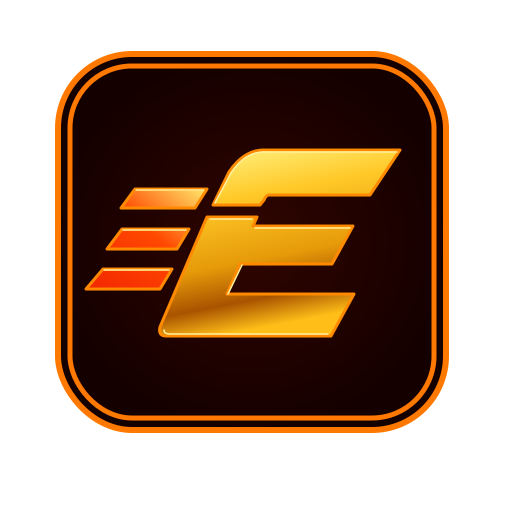
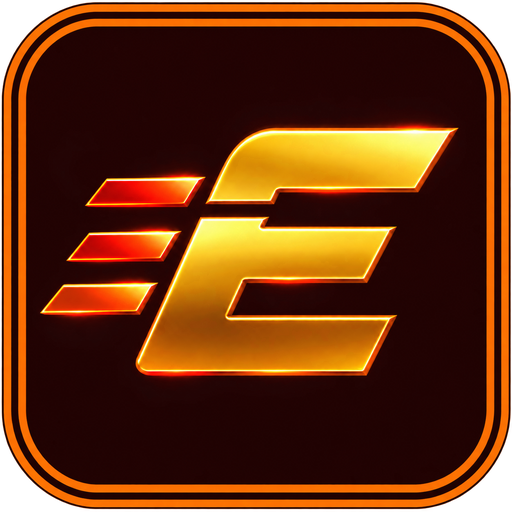
Esteira ON V0.6.26 - Novos icones SVG e PNG

diff --git a/components/Shell.tsx b/components/Shell.tsx
@@ -3,4 +3,4 @@ import Link from "next/link"; import Image from "next/image"; import {useEffect,
 const links=[["/trabalhos","Meus Trabalhos"],["/buscar","Buscar"],["/gestao","Gestão"],["/administracao","Administração"],["/novo-produto","Novo Produto"],["/atualizar-anuncio","Atualizar Anúncio"],["/importar-excel","Importar Excel"]];
 type U={nome:string;perfil:string};
 export default function Shell({children}:{children:React.ReactNode}){const [u,setU]=useState<U|null>(null);const r=useRouter();const pathname=usePathname();const fileRef=useRef<HTMLInputElement>(null);const [avatarVersion,setAvatarVersion]=useState(0);const [uploading,setUploading]=useState(false);const [photoError,setPhotoError]=useState("");useEffect(()=>{let ativo=true;const carregar=async()=>{try{const x=await fetch('/api/me',{cache:'no-store'});if(x.status===401){if(ativo)r.replace('/login');return}if(!x.ok)return;const d=await x.json();if(ativo)setU(d)}catch{/* erro temporário de rede/banco não encerra a sessão */}};carregar();return()=>{ativo=false}},[r]);const uploadPhoto=async(file?:File)=>{if(!file)return;setPhotoError("");setUploading(true);try{if(!file.type.startsWith("image/"))throw new Error("Selecione uma imagem.");if(file.size>8*1024*1024)throw new Error("A imagem deve ter até 8 MB.");const bmp=await createImageBitmap(file);const canvas=document.createElement("canvas");const size=Math.min(bmp.width,bmp.height);canvas.width=320;canvas.height=320;const ctx=canvas.getContext("2d");if(!ctx)throw new Error("Não foi possível processar a imagem.");ctx.drawImage(bmp,(bmp.width-size)/2,(bmp.height-size)/2,size,size,0,0,320,320);bmp.close();const blob=await new Promise<Blob|null>(resolve=>canvas.toBlob(resolve,"image/jpeg",.78));if(!blob)throw new Error("Não foi possível gerar a foto.");const res=await fetch("/api/profile/photo",{method:"PUT",headers:{"Content-Type":"image/jpeg"},body:blob});const data=await res.json();if(!res.ok)throw new Error(data.error||"Erro ao salvar foto.");setAvatarVersion(v=>v+1)}catch(e){setPhotoError(e instanceof Error?e.message:"Erro ao enviar foto.")}finally{setUploading(false);if(fileRef.current)fileRef.current.value=""}};const removePhoto=async()=>{setPhotoError("");const res=await fetch("/api/profile/photo",{method:"DELETE"});if(res.ok)setAvatarVersion(v=>v+1);else setPhotoError("Não foi possível remover a foto.")};const logout=async()=>{await fetch('/api/auth/logout',{method:'POST'});r.replace('/login')};
-return <div className="shell"><aside className="sidebar"><div className="brand"><div className="brandIcon"><Image src="/esteira-on-icon.png" alt="Ícone Esteira ON" width={72} height={72} unoptimized/></div><div><strong>ESTEIRA<br/>ON</strong><small>WEB V0.6.24</small></div></div><nav className="nav">{links.filter(([h])=>!((h==='/administracao'||h==='/novo-produto'||h==='/atualizar-anuncio'||h==='/importar-excel')&&u?.perfil!=='ADMINISTRADOR')&&!(h==='/gestao'&&!['ADMINISTRADOR','GESTOR'].includes(u?.perfil||''))).map(([href,label])=><Link key={href} href={href} className={pathname===href?"active":""}><span className="navGlyph" aria-hidden="true">{href==="/trabalhos"?"⌂":href==="/buscar"?"⌕":"◆"}</span>{label}</Link>)}</nav><div className="user"><button className="userAvatar avatarButton" type="button" title="Alterar minha foto" aria-label="Alterar minha foto" onClick={()=>fileRef.current?.click()}>{u&&<img key={avatarVersion} src={`/api/profile/photo?v=${avatarVersion}`} alt="" onError={e=>{e.currentTarget.style.display="none"}}/>}<span className="avatarFallback">◯</span></button><input ref={fileRef} type="file" accept="image/*" hidden onChange={e=>uploadPhoto(e.target.files?.[0])}/><b>{u?.nome||'Carregando...'}</b><small>{u?.perfil||''}</small>{u&&<div className="photoControls"><button type="button" onClick={()=>fileRef.current?.click()} disabled={uploading}>{uploading?"Enviando...":"Alterar foto"}</button><button type="button" onClick={removePhoto}>Remover</button>{photoError&&<span role="alert">{photoError}</span>}</div>}{u&&<button onClick={logout} className="logout">SAIR</button>}</div></aside><main className="main">{children}</main></div>}
+return <div className="shell"><aside className="sidebar"><div className="brand"><div className="brandIcon"><Image src="/esteira-on-icon.png" alt="Ícone Esteira ON" width={72} height={72} unoptimized/></div><div><strong>ESTEIRA<br/>ON</strong><small>WEB V0.6.26</small></div></div><nav className="nav">{links.filter(([h])=>!((h==='/administracao'||h==='/novo-produto'||h==='/atualizar-anuncio'||h==='/importar-excel')&&u?.perfil!=='ADMINISTRADOR')&&!(h==='/gestao'&&!['ADMINISTRADOR','GESTOR'].includes(u?.perfil||''))).map(([href,label])=><Link key={href} href={href} className={pathname===href?"active":""}><span className="navGlyph" aria-hidden="true">{href==="/trabalhos"?"⌂":href==="/buscar"?"⌕":"◆"}</span>{label}</Link>)}</nav><div className="user"><button className="userAvatar avatarButton" type="button" title="Alterar minha foto" aria-label="Alterar minha foto" onClick={()=>fileRef.current?.click()}>{u&&<img key={avatarVersion} src={`/api/profile/photo?v=${avatarVersion}`} alt="" onError={e=>{e.currentTarget.style.display="none"}}/>}<span className="avatarFallback">◯</span></button><input ref={fileRef} type="file" accept="image/*" hidden onChange={e=>uploadPhoto(e.target.files?.[0])}/><b>{u?.nome||'Carregando...'}</b><small>{u?.perfil||''}</small>{u&&<div className="photoControls"><button type="button" onClick={()=>fileRef.current?.click()} disabled={uploading}>{uploading?"Enviando...":"Alterar foto"}</button><button type="button" onClick={removePhoto}>Remover</button>{photoError&&<span role="alert">{photoError}</span>}</div>}{u&&<button onClick={logout} className="logout">SAIR</button>}</div></aside><main className="main">{children}</main></div>}

diff --git a/app/globals.css b/app/globals.css
@@ -43,8 +43,8 @@
 .sidebar:before{content:"";position:absolute;inset:35% 0 0;pointer-events:none;background:repeating-linear-gradient(49deg,transparent 0 94px,rgba(255,64,24,.05) 95px 97px,transparent 98px 186px);opacity:.8}
 .sidebar>*{position:relative;z-index:1}
 .brand{gap:13px;padding:0 2px 10px;align-items:center}
-.brandIcon{width:65px;height:65px;flex-shrink:0;border:1px solid #a13b1b;border-radius:14px;overflow:hidden;background:#1a0608;box-shadow:0 0 24px rgba(210,45,20,.16)}
-.brand .brandIcon img{display:block;width:100%;height:100%;object-fit:cover;background:transparent;border-radius:0}
+.brandIcon{width:65px;height:65px;flex-shrink:0;border:0;border-radius:0;overflow:visible;background:transparent;box-shadow:none}
+.brand .brandIcon img{display:block;width:100%;height:100%;object-fit:contain;background:transparent;border:0;border-radius:0}
 .brand strong{font-size:19px;line-height:1.05;letter-spacing:.01em;color:#f6c451;text-shadow:0 1px 8px rgba(213,103,14,.22)}
 .brand small{color:#c4a9a7;font-size:11px;letter-spacing:.025em;margin-top:7px}
 .nav{gap:9px}.nav a{display:flex;align-items:center;gap:12px;border-radius:11px;padding:14px 13px;color:#dfc8c7;transition:background .16s,border-color .16s;border-left:3px solid transparent}

diff --git a/README_V0_6_26.md b/README_V0_6_26.md
@@ -1,0 +1,5 @@
+# ESTEIRA ON V0.6.26
+
+Atualizados `app/icon.svg`, `app/icon.png` e `public/esteira-on-icon.png` com o símbolo enviado. Menu lateral e versão atualizados.
+
+Publicar somente após verificar o `git status --short`, sem incluir credenciais ou dependências.

diff --git a/README_V0_6_25.md b/README_V0_6_25.md
@@ -1,0 +1,3 @@
+# ESTEIRA ON V0.6.25
+
+Ajuste visual do ícone no menu lateral: removida a moldura extra e mantida a borda original do E. Ícones SVG e PNG da V0.6.24 preservados. Sem alterações de banco de dados ou regras de negócio.
